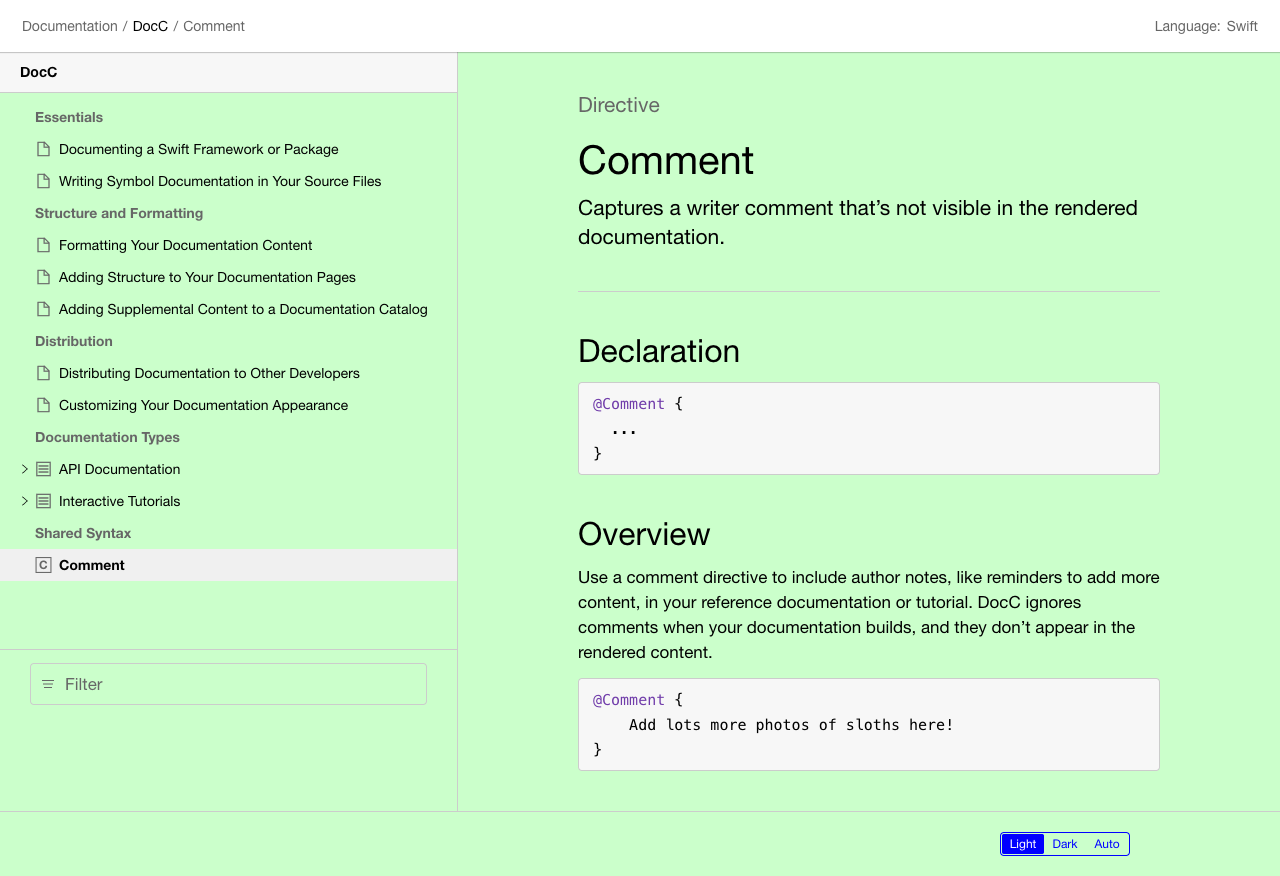
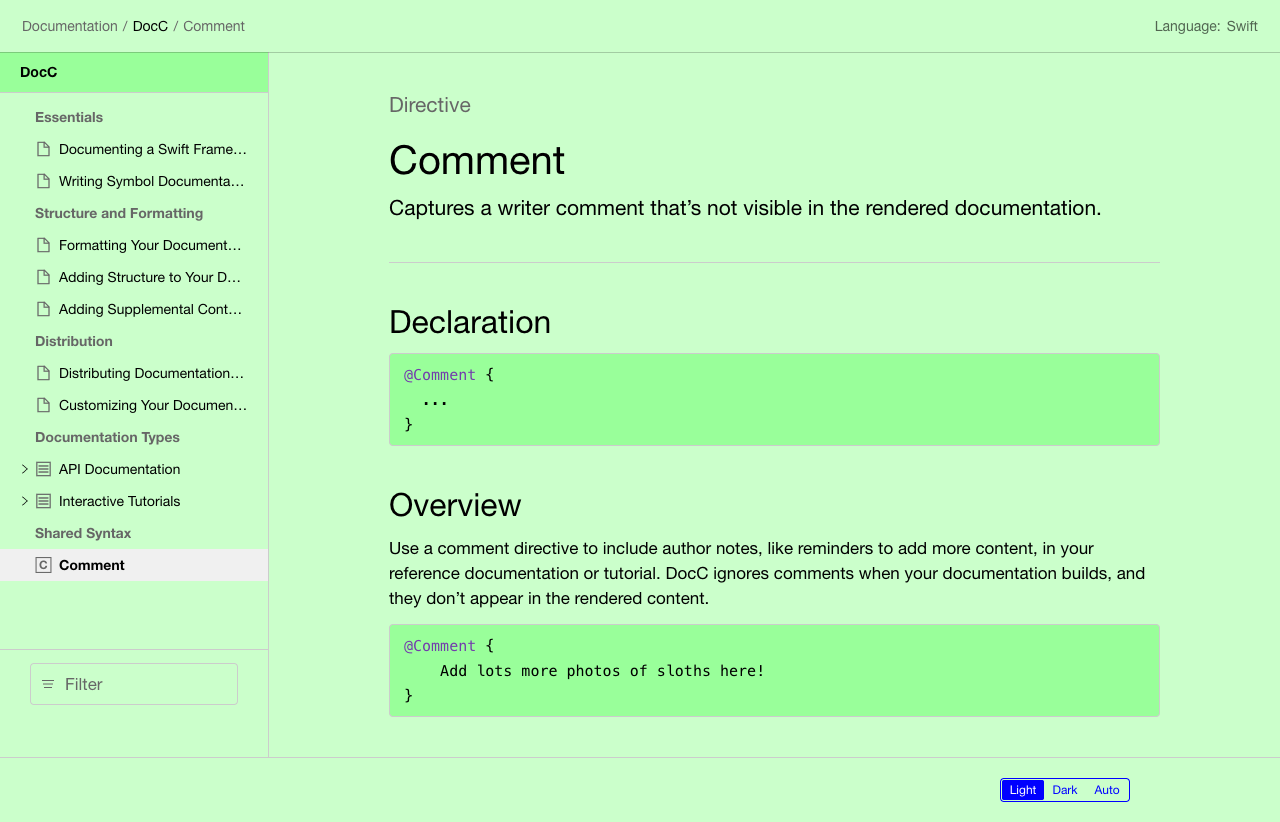
Update advanced color example.

diff --git a/Sources/DocCDocumentation/DocCDocumentation.docc/customizing-your-documentation-appearance.md b/Sources/DocCDocumentation/DocCDocumentation.docc/customizing-your-documentation-appearance.md
@@ -51,8 +51,8 @@ changing the value of the CSS property to `--color-documentation-intro-fill:
 
 Note that any valid CSS color value could be used. Here is a more advanced
 example which demonstrates how specialized dark and light versions of the main
-background fill color could be defined as varying lightness percentages of a
-green hue.
+background fill and nav colors could be defined as varying lightness percentages
+of a green hue.
 
 ```json
 {
@@ -62,7 +62,12 @@ green hue.
       "fill": {
         "dark": "hsl(var(--color-hue-green), 100%, 10%)",
         "light": "hsl(var(--color-hue-green), 100%, 90%)"
-      }
+      },
+      "fill-secondary": {
+        "dark": "hsl(var(--color-hue-green), 100%, 20%)",
+        "light": "hsl(var(--color-hue-green), 100%, 80%)"
+      },
+      "nav-solid-background": "var(--color-fill)"
     }
   }
 }
